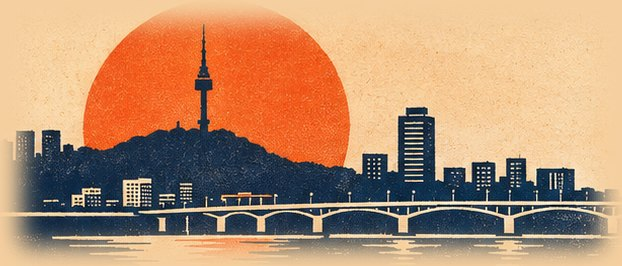
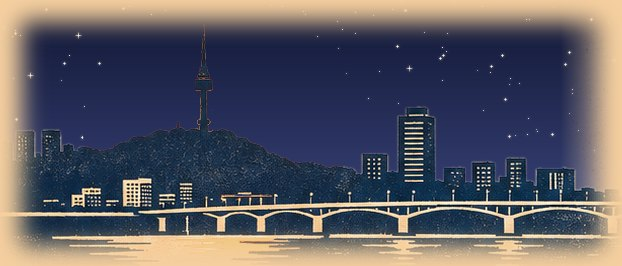
1.97: '세계는 서울로' 간판 해 → 별이 보이는 밤하늘(일장기 같다는 의견)
Claude-Session: https://claude.ai/code/session_012mxsbcd4ZPNXeNzgWUvJ3a

diff --git a/docs/HANDOFF.md b/docs/HANDOFF.md
@@ -2,7 +2,7 @@
 
 > **새 대화에서는 이 문서를 먼저 읽고 이어서 작업합니다.** 작업을 하나 끝낼 때마다 이 문서를 고쳐서(맨 아래 "작업 기록"에 한 줄 + 바뀐 부분) 같이 커밋합니다.
 
-마지막 갱신: **2026-11-26 · v1.96 (versionCode 130)**
+마지막 갱신: **2026-11-26 · v1.97 (versionCode 131)**
 
 ---
 
@@ -11,7 +11,7 @@
 | 항목 | 내용 |
 |---|---|
 | 저장소 | `Deasinnam/Deasinnamdb` (**공개**), 브랜치 **`daesinnam-one-v1`** |
-| 최신 버전 | **1.96** (versionCode 130, versionName `1.96-one`) |
+| 최신 버전 | **1.97** (versionCode 131, versionName `1.97-one`) |
 | 릴리스 태그 | `one-v1` (CI가 매번 지우고 다시 올림) |
 | 빌드 | GitHub Actions `.github/workflows/build-apk.yml` → 화면 테스트(Playwright) → 서명(키는 GitHub Secrets, 저장소에 없음) → 릴리스 `one-v1` |
 | 웹 미리보기 | 아티팩트 "대신남 원 Ver1" — https://claude.ai/artifact/VmcAkcQKBRp8ZsXLA3hZDx |
@@ -127,6 +127,7 @@
 ## 7. 작업 기록 (최근이 위)
 
 - 2026-11-25 · 1.87 — 의견(스피드미터): 아무 블루투스에나 "차량 연결됨 · Amp로 재생" 알림. `CarConnect.matches(ctx, name, dev)`: 차를 지정하지 않았으면 `carLike()` — BluetoothClass가 `AUDIO_VIDEO_CAR_AUDIO`·`AUDIO_VIDEO_HANDSFREE`인 기기만(ACL 연결은 EXTRA_DEVICE, A2DP 출력 콜백은 이름으로 짝지은 기기 `bondedByName`). 권한 없거나 종류를 모르면 차가 아님. 설정 첫 항목 "차량 오디오 자동 인식 (이어폰·스피커 제외)"(web/src/80-clock-windows.js, index.html 설명). 로컬 테스트: 25-pfd-minimap은 지도 타일(네트워크) 탓에 수정 전에도 실패, 나머지 통과. 공개: 초안 확인 뒤 `[publish-speedometer]` 커밋 + 사이트 DL 표.
+- 2026-11-26 · 1.97 — 의견: '세계는 서울로' 간판의 남산타워 뒤 주황 해가 일장기 같다 → 사용자: 해 대신 별이 보이는 밤하늘. 원본 띠(사용자 그림)에서 도시 윤곽 위 하늘(왼쪽 0~660px)을 짙은 남색→보랏빛 남색 밤하늘 + 별 170개(시드 1988)로 바꾸고 오른쪽 글자 쪽으로 90px 부드럽게 섞음, 남산타워 틈의 주황은 밤하늘색, 물 위 주황 물빛은 금빛 불빛. `assets/taxi/seoul88*.jpg` 다시 만듦. 사이트 영상·포스터·화면(sp-taxi*.jpg/mp4)도 옛 간판 자리를 새 간판으로 덮어 다시 올림.
 - 2026-11-26 · 1.96 공개 · 사이트 — 사용자: 덜누름 사이트 상세 페이지에 업데이트 추가·파일 올리기, 홈에 크게 알리기. `[publish-speedometer]` 빈 커밋으로 `speedometer-v1.96` 공개(1.88~1.95 초안은 그대로). gh-pages `src/index.html`: 홈 첫 화면 아래 `.hm-big` 카드(영상 `media/sp-taxi.mp4` — 사용자 촬영본에서 휴대폰 사진 갤러리가 보이는 13.2~18.7초를 잘라 냄, 720px H.264), '오늘의 덜누름' 카드 1.96, /speedometer/ `#spd-taxi` 섹션(영상 · `sp-taxi-pro/s88/lcd.jpg`·`sp-musicfx.jpg` · 6줄 설명 · 재미로만 안내) + 위쪽 '🚕 1.96 새 기능' 버튼(data-scroll), 소개 07줄, DL 표 tag·versions 1.96. `python3 tools/build_pages.py` 후 커밋.
 - 2026-11-26 · 1.96 — 바깥 화면에서 '대신남 운수' 글자와 사진이 통째로 사라짐(사용자 사진). 원인 추정: 폰 글자 크기 설정(웹뷰 글자 확대)이 있으면 getComputedStyle 글자 크기에 확대가 들어 있고, 그 값×0.93을 다시 넣으면 또 확대돼 커짐 → 1.95 `fitSign` 반복이 글자를 계속 키워 간판 밖으로 밀어냄(사진도 밀려남). 공통 `shrinkFont(el,fits,min)`: 100px를 넣어 배율 z를 먼저 재고 '원래×k÷z'로만 넣음, k 바닥 0.3(요금 0.2). `fitFare`도 같은 방식. 간판 격자 `minmax(0,1fr) auto`. 브라우저에선 글자 확대를 그대로 흉내 낼 수 없어 폰 확인 필요. 초안만, 출시 안 함.
 - 2026-11-26 · 1.95 — (사용자: 스피드미터 화면 오른쪽 아래 노래 제목 위에 제목과 같은 색 음악 효과, 누르면 효과 바뀜, 배경 없이 / 바깥 화면에서 '대신남 운수' 글자가 잘림.) 새 `web/src/97-pfd-songfx.js` `PfdSongFx`: `#pfdHost .pfd-canvas-wrap`에 `svg.pfd-songfx`(canvas를 쓰면 '#pfdHost canvas'로 PFD를 찾는 시험·코드와 겹쳐서 svg 경로로 그림, pfd.js는 안 건드림), 노래 제목(`.pfd-song`)이 보일 때만 30fps로 그림, 색은 제목의 computed color, 소리 값은 30-eq-visual의 `bars`·`W`, 효과 5가지(막대·거울 막대·파형·점·원) 누르면 순서대로·`store 'pfdFx'`, 시험용 `_feed()`. 간판 글자는 `fitSign()`이 실제 위치를 재서(사진과 같은 줄이면 사진 왼쪽까지, 아니면 간판 안) 넘으면 0.93배씩 줄임 — 폰 글자 크기 설정(웹뷰 글자 확대) 때문에 잘리던 것, `.tx-88` ResizeObserver. 테스트 41에 음악 효과 추가. 초안만, 출시 안 함.

diff --git a/README.md b/README.md
@@ -46,6 +46,7 @@
 - 1.17: 새 스킨 "대신남 자동차 모드 · 콕핏 수정판"(콕핏 2와 같은 기능) — 창 제목줄·조종 패널 머리 모양 통일, 손가락 크기 버튼(창 버튼 44px, 도구 줄 48px), 최소 글자 13px·회색 글자 대비 올림, 글꼴 3종으로 정리, 도구 줄은 간편 모드·설정·라디오·후진만(스킨·화면 배치는 설정 → 화면 · 스킨), 휴대폰에서 시계 3개를 한 줄로, 블랙박스 반전 버튼은 아이콘, 연결 전 블랙박스 칸은 낮게, 곡이 없을 때 NOW PLAYING 안내. 처음 설치와 콕핏 2를 쓰던 기기는 한 번 콕핏 수정판으로 바뀜(설정에서 되돌리기). 모든 스킨: 휴대폰에서 제목줄이 화면 밖으로 밀리던 문제, 라디오 표시창 글자 잘림, MUTE 잘림, PFD 시연 버튼 겹침 수정. 라디오를 듣다가 YouTube Music·Spotify를 틀면 중간에 멈추던 문제 수정(라디오가 소리를 넘겨주면 다시 잇지 않음). YouTube Music·Spotify 버튼은 앱 안 목록 대신 그 앱으로 전환해 선곡.
 - 1.17.1: 조종 패널은 화면 너비와 관계없이 다섯 칸 한 줄(좁으면 통째로 줄임). 콕핏 수정판 — 상단 [🎨 스킨] 버튼으로 바로 스킨 바꾸기, 해외 시간 대신 나침반 계기(날씨 계기와 같은 원형, 진행 방향·방위, 누르면 GPS 켜기), 좁은 화면에서 도구 줄 두 줄. 속도계 아래 버튼 글자가 칸 밖으로 나가던 문제 수정(좁으면 아이콘 숨김). 알림 접근 "제한된 설정" 단계별 안내 창(설정에서 돌아오면 다음 단계를 자동으로 보여 줌).
 - 1.18: 스킨 정리 — 콕핏·콕핏 2·드라이브 스킨 삭제, "콕핏 수정판"을 "대신남 자동차 모드 · 콕핏"으로, 콕핏 3을 "콕핏 그레이"로 이름 변경(예전 콕핏·콕핏 2를 쓰던 기기는 콕핏으로, 드라이브는 자동차 모드로 자동 이동). 모든 스킨에서 스킨은 상단 [🎨 스킨] 버튼으로 바꿈. 대신남 자동차 모드 스킨에서 블랙박스 창 삭제.
+- 1.97: '세계는 서울로' 간판의 해를 별이 보이는 밤하늘로 바꿈
 - 1.96: 택시 미터기 — 폰 글자 크기를 키운 경우 바깥 화면에서 '대신남 운수' 간판 글자와 사진이 사라지던 문제 수정
 - 1.95: 스피드미터 화면의 노래 제목 위에 같은 색 음악 효과(배경 없음, 누를 때마다 막대·거울·파형·점·원으로 바뀜), 택시 미터기 간판 '대신남 운수' 글자가 폰 글자 크기 설정 때문에 잘리던 문제 수정
 - 1.94: 택시 미터기 — 기사 사진을 넣을 때 끌어서 옮기고 확대·축소해 원하는 부분을 동그라미에 맞춤, 레트로 스킨 아래는 '세계는 서울로 · 서울은 세계로' 그림, 실물 전자식·LCD 클래식은 '⇄ 간판'으로 '대신남 운수'와 '세계는 서울로'를 바꿀 수 있음
